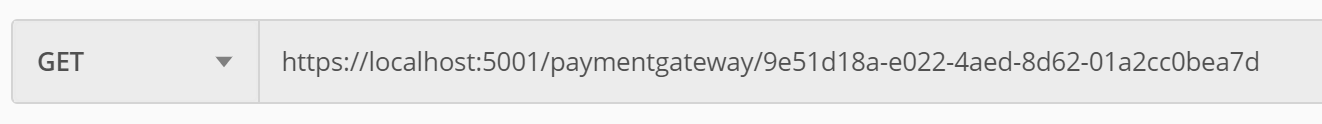
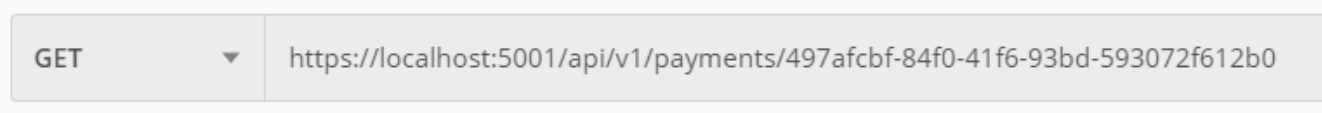
Updating the readme with the new URL structure

diff --git a/README.md b/README.md
@@ -24,12 +24,12 @@ dotnet test
 
 ### Making a payment
 
-Use a tool such as [Postman](https://www.postman.com/) to make the following `HttpPost` request.
+You can interact with the API using a tool such as [Postman](https://www.postman.com/) or access it using [Swagger](https://swagger.io/) on the following URL whilst the application is running locally: https://localhost:5001/swagger
 
 With the API running locally, send a Post request to the following URL
 
 ```text
-https://localhost:5001/paymentgateway/
+https://localhost:5001/api/v1/payments
 ```
 
 with the body of the payload formatted like this:
@@ -80,7 +80,7 @@ e.g. the Payment demonstrated above returned an id of `9e51d18a-e022-4aed-8d62-0
 So to get information about this payment, send a Get request to:
 
 ```text
-https://localhost:5001/paymentgateway/9e51d18a-e022-4aed-8d62-01a2cc0bea7d
+https://localhost:5001/api/v1/payments/9e51d18a-e022-4aed-8d62-01a2cc0bea7d
 ```
 
 <p align="center">
@@ -150,10 +150,7 @@ I have written some integration tests that call the API to check data can be ins
 
 - [Swagger](https://swagger.io/)
 
-  I have added Swagger for documenting the API and to assist with discovery and exploration. It can be accessed on the following URL:
-  ```text
-  https://localhost:5001/swagger
-  ```
+  I have added Swagger for documenting the API and to assist with discovery and exploration. 
 
 ## TODO
 
